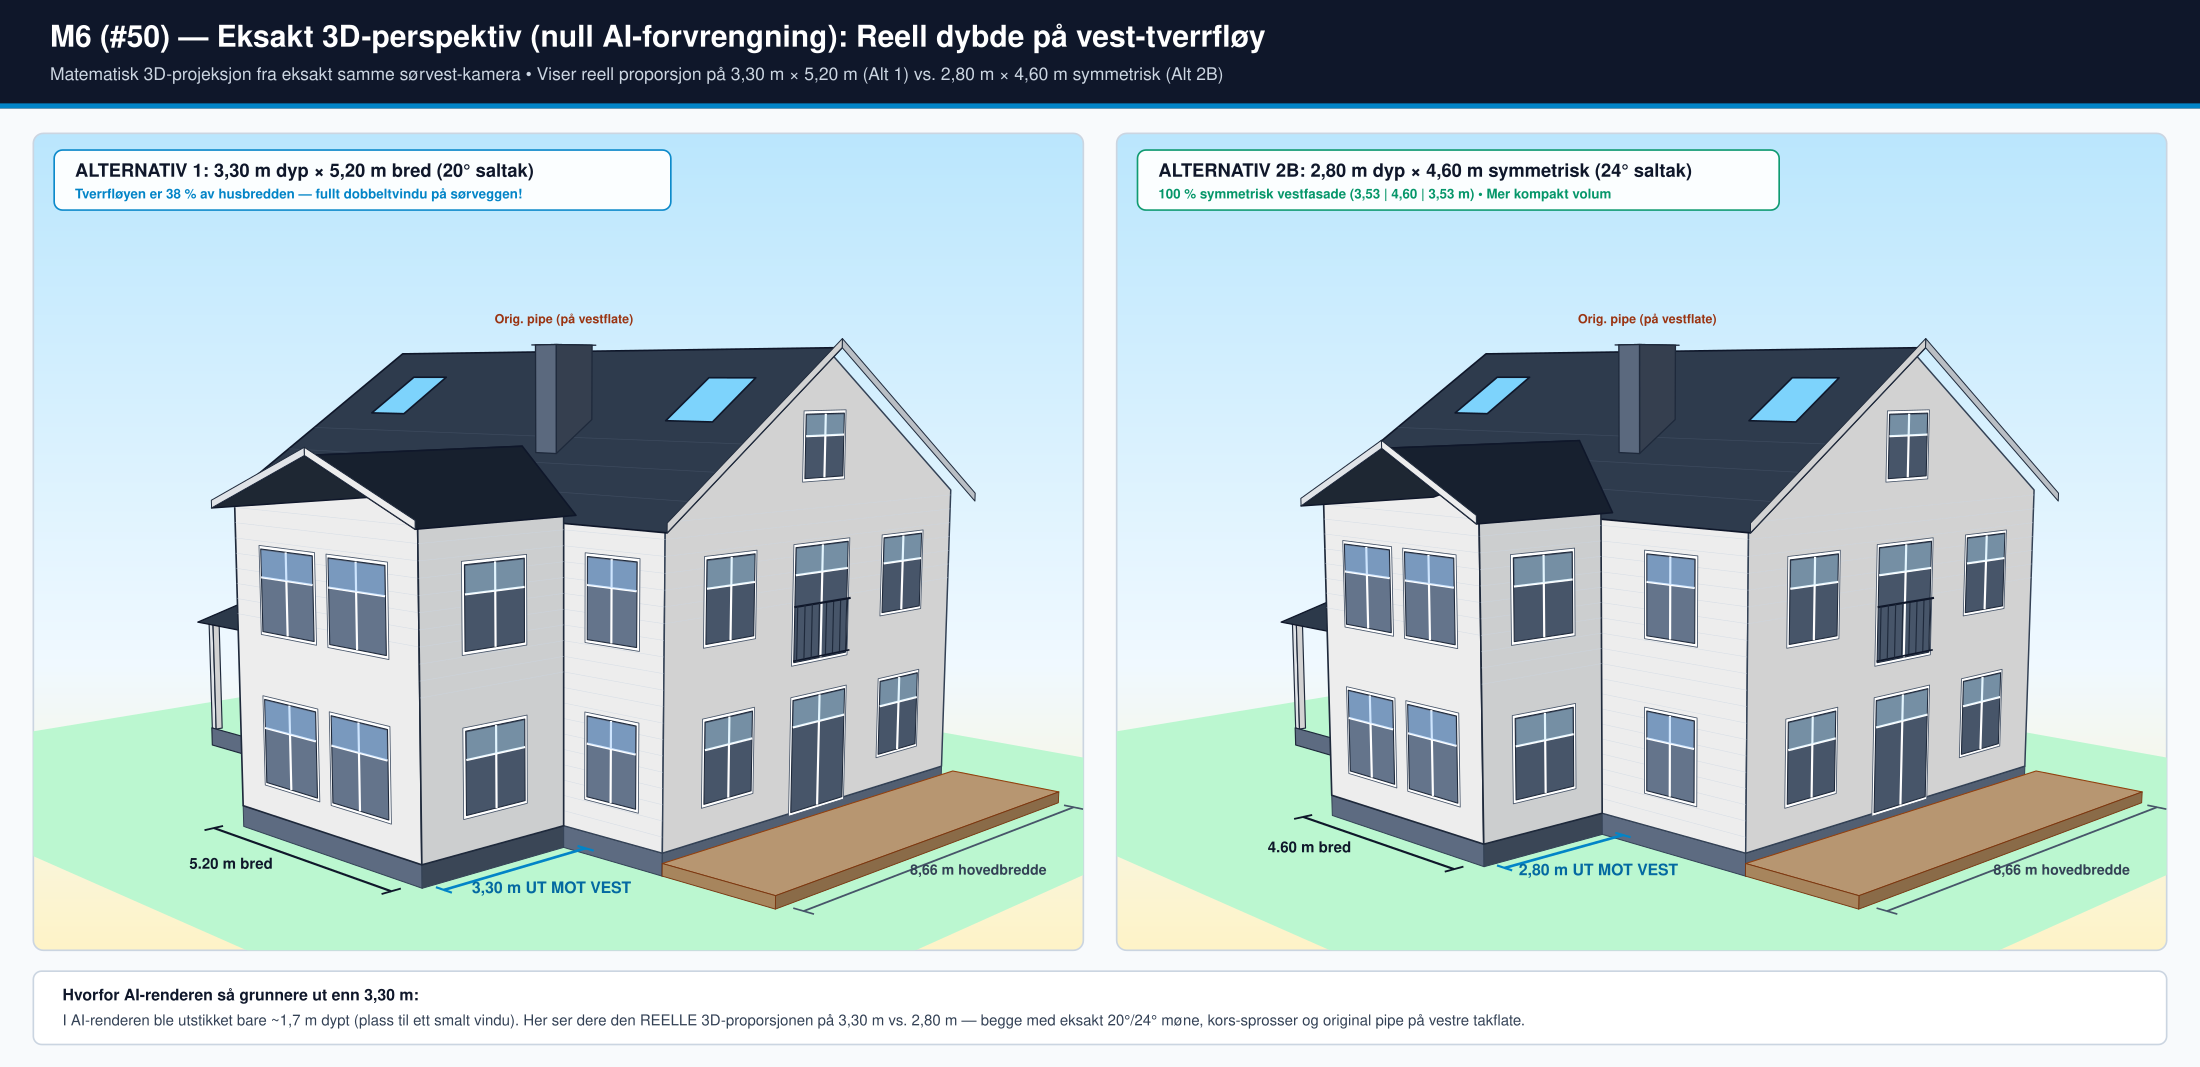
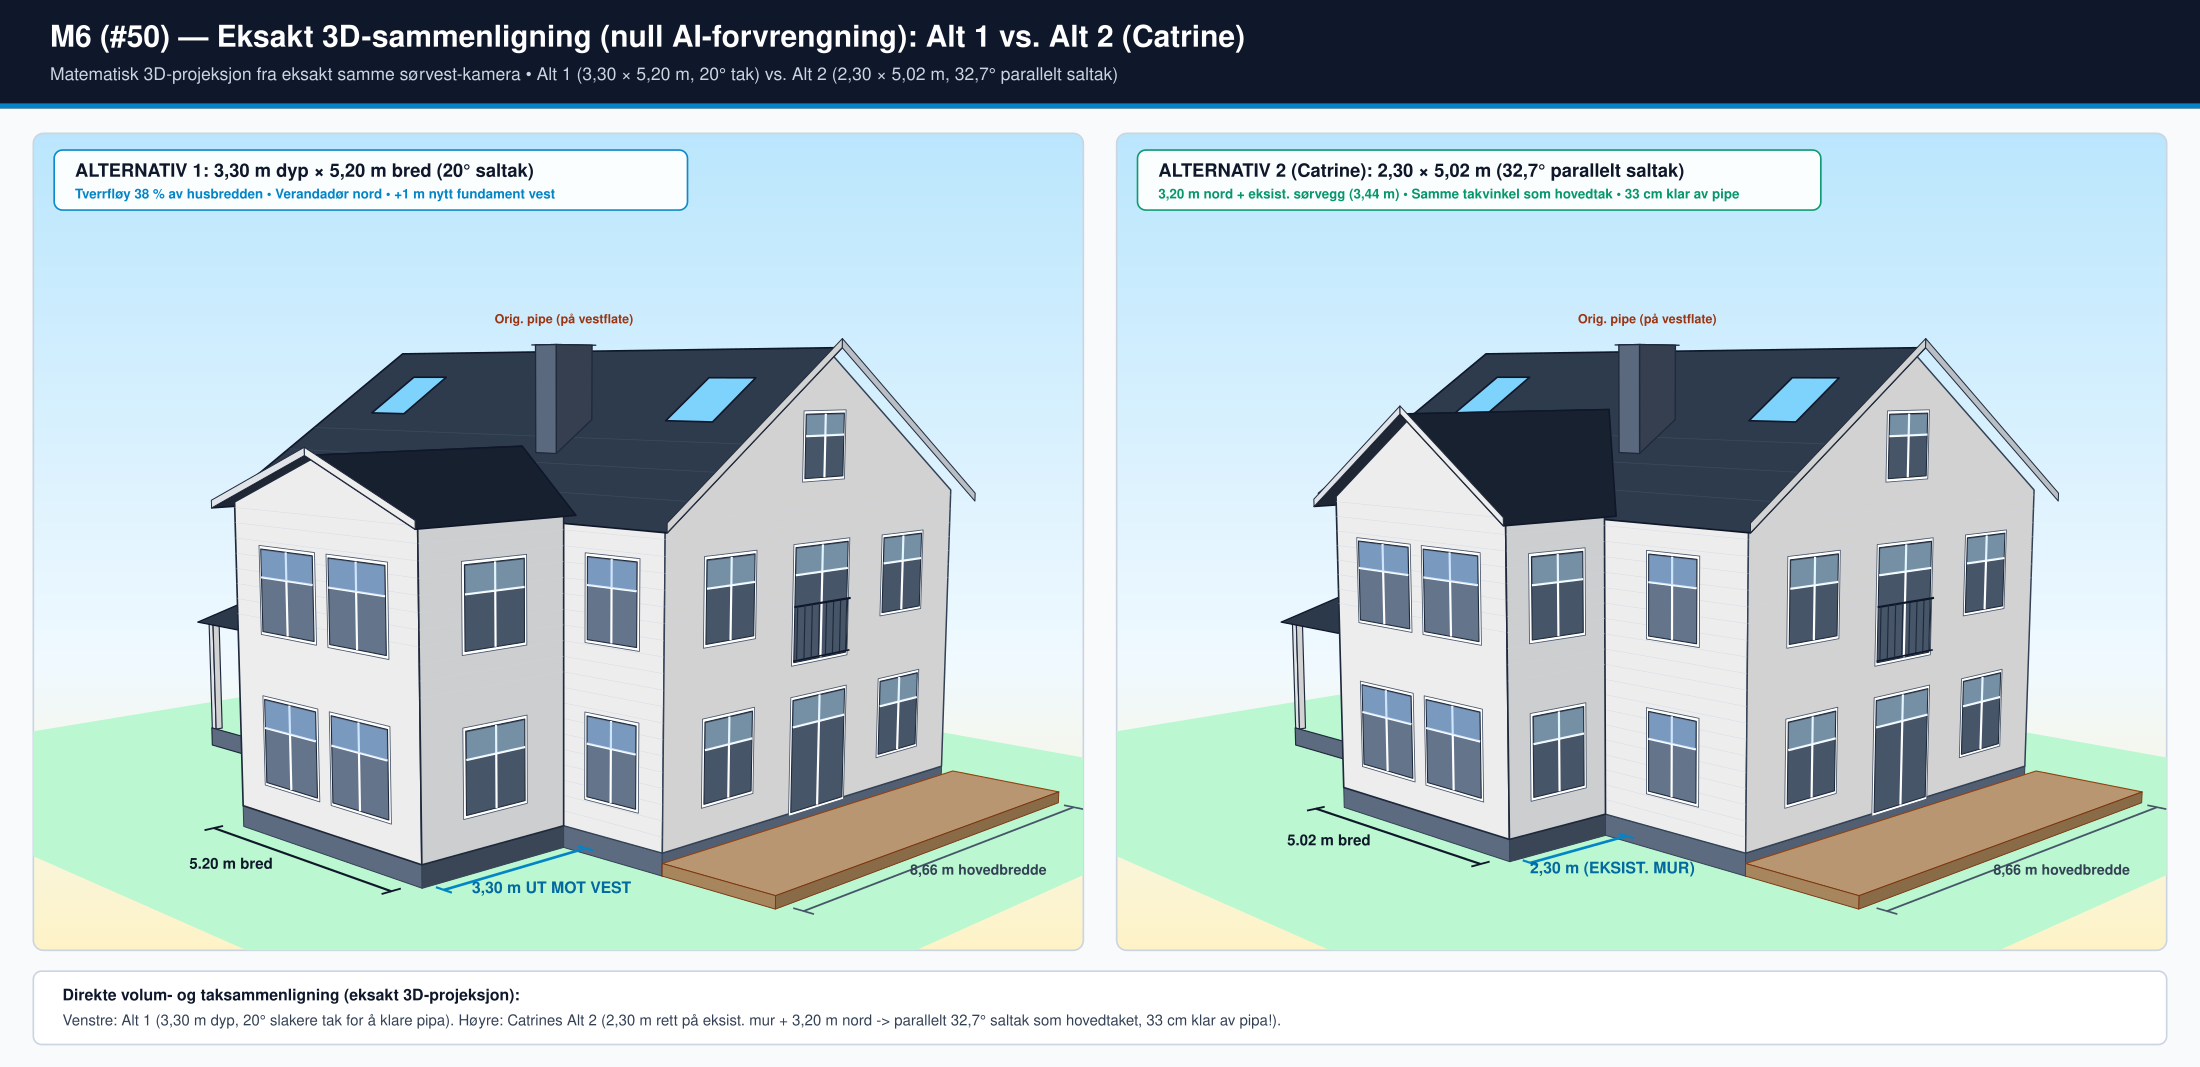
Update 3D SW comparison: Alt 1 (3.30x5.20m 20°) vs Catrine's Alt 2 (2.30x5.02m 32.7°)

diff --git a/scripts/generate_3d_perspektiv_eksakt.py b/scripts/generate_3d_perspektiv_eksakt.py
@@ -310,10 +310,11 @@ def build_house_3d(cam: Camera3D, west_d: float, y_s: float, y_n: float, wing_de
     sc.add_kors_window_west(-west_d, y_mid - gap / 2 - win_w, y_mid - gap / 2, 380, 530, layer=7)
     sc.add_kors_window_west(-west_d, y_mid + gap / 2, y_mid + gap / 2 + win_w, 380, 530, layer=7)
 
-    # South side wall of west wing — symmetric double kors-sprosse windows in BOTH 1st & 2nd floor (veranda door is on NORTH wall!)
+    # South side wall of west wing — symmetric double kors-sprosse windows in BOTH 1st & 2nd floor
     xc_s = -west_d / 2.0
-    sc.add_kors_window_south(y_s, xc_s - 68, xc_s + 68, 105, 250, layer=7)
-    sc.add_kors_window_south(y_s, xc_s - 68, xc_s + 68, 385, 530, layer=7)
+    hw_s = 68.0 if west_d >= 260 else 60.0
+    sc.add_kors_window_south(y_s, xc_s - hw_s, xc_s + hw_s, 105, 250, layer=7)
+    sc.add_kors_window_south(y_s, xc_s - hw_s, xc_s + hw_s, 385, 530, layer=7)
 
     # West wing ROOF (South slope + North slope meeting main roof cleanly at exact 3D valley!)
     ov_w = 30.0
@@ -325,13 +326,13 @@ def build_house_3d(cam: Camera3D, west_d: float, y_s: float, y_n: float, wing_de
         (x_stop, y_mid, z_wing_ridge),
         (-west_d - 30, y_mid, z_wing_ridge),
     ], "#1e293b", stroke="#0f172a", sw=2.0, layer=8, ambient=0.52)
-    # North roof slope (visible slightly at peak)
+    # North roof slope (behind west gable wall -> layer=5 so it never overlaps the front gable triangle!)
     sc.add_poly([
         (-west_d - 30, y_mid, z_wing_ridge),
         (x_stop, y_mid, z_wing_ridge),
         (0, y_n + ov_w, z_w_ov),
         (-west_d - 30, y_n + ov_w, z_w_ov),
-    ], "#334155", stroke="#0f172a", sw=1.8, layer=8, ambient=0.60)
+    ], "#334155", stroke="#0f172a", sw=1.8, layer=5, ambient=0.60)
     # White gable bargeboard on west wing
     sc.add_poly([(-west_d - 30, y_s - ov_w, z_w_ov), (-west_d - 30, y_mid, z_wing_ridge), (-west_d - 30, y_mid, z_wing_ridge + 14), (-west_d - 30, y_s - ov_w, z_w_ov + 14)],
                 "#ffffff", stroke="#1e293b", sw=1.2, layer=9)
@@ -379,8 +380,8 @@ def main():
         # Header
         f'<rect x="0" y="0" width="{W}" height="130" fill="#0f172a"/>',
         f'<rect x="0" y="124" width="{W}" height="6" fill="#0284c7"/>',
-        f'<text x="60" y="56" font-size="36" font-weight="800" fill="#ffffff">M6 (#50) — Eksakt 3D-perspektiv (null AI-forvrengning): Reell dybde på vest-tverrfløy</text>',
-        f'<text x="60" y="96" font-size="21" font-weight="500" fill="#cbd5e1">Matematisk 3D-projeksjon fra eksakt samme sørvest-kamera • Viser reell proporsjon på 3,30 m × 5,20 m (Alt 1) vs. 2,80 m × 4,60 m symmetrisk (Alt 2B)</text>',
+        f'<text x="60" y="56" font-size="36" font-weight="800" fill="#ffffff">M6 (#50) — Eksakt 3D-sammenligning (null AI-forvrengning): Alt 1 vs. Alt 2 (Catrine)</text>',
+        f'<text x="60" y="96" font-size="21" font-weight="500" fill="#cbd5e1">Matematisk 3D-projeksjon fra eksakt samme sørvest-kamera • Alt 1 (3,30 × 5,20 m, 20° tak) vs. Alt 2 (2,30 × 5,02 m, 32,7° parallelt saltak)</text>',
         # Left panel backdrop
         f'<rect x="40" y="160" width="1260" height="980" fill="url(#sky)" stroke="#cbd5e1" stroke-width="2" rx="12"/>',
         # Right panel backdrop
@@ -402,22 +403,22 @@ def main():
     svg.append("</g>")
 
     svg.append('<g clip-path="url(#clipR)">')
-    svg.extend(build_house_3d(camR, west_d=280.0, y_s=353.0, y_n=813.0, wing_deg=24.0, label_wing="2,80 m UT MOT VEST"))
+    svg.extend(build_house_3d(camR, west_d=230.0, y_s=344.0, y_n=846.0, wing_deg=32.7, label_wing="2,30 m (EKSIST. MUR)"))
     svg.append("</g>")
 
     # Panel banners
-    svg.append('<rect x="65" y="180" width="740" height="72" fill="#ffffff" opacity="0.94" stroke="#0284c7" stroke-width="2" rx="10"/>')
+    svg.append('<rect x="65" y="180" width="760" height="72" fill="#ffffff" opacity="0.94" stroke="#0284c7" stroke-width="2" rx="10"/>')
     svg.append('<text x="90" y="212" font-size="22" font-weight="800" fill="#0f172a">ALTERNATIV 1: 3,30 m dyp × 5,20 m bred (20° saltak)</text>')
-    svg.append('<text x="90" y="238" font-size="16" font-weight="600" fill="#0284c7">Tverrfløyen er 38 % av husbredden — fullt dobbeltvindu på sørveggen!</text>')
+    svg.append('<text x="90" y="238" font-size="16" font-weight="600" fill="#0284c7">Tverrfløy 38 % av husbredden • Verandadør nord • +1 m nytt fundament vest</text>')
 
-    svg.append('<rect x="1365" y="180" width="770" height="72" fill="#ffffff" opacity="0.94" stroke="#059669" stroke-width="2" rx="10"/>')
-    svg.append('<text x="1390" y="212" font-size="22" font-weight="800" fill="#0f172a">ALTERNATIV 2B: 2,80 m dyp × 4,60 m symmetrisk (24° saltak)</text>')
-    svg.append('<text x="1390" y="238" font-size="16" font-weight="600" fill="#059669">100 % symmetrisk vestfasade (3,53 | 4,60 | 3,53 m) • Mer kompakt volum</text>')
+    svg.append('<rect x="1365" y="180" width="820" height="72" fill="#ffffff" opacity="0.94" stroke="#059669" stroke-width="2" rx="10"/>')
+    svg.append('<text x="1390" y="212" font-size="22" font-weight="800" fill="#0f172a">ALTERNATIV 2 (Catrine): 2,30 × 5,02 m (32,7° parallelt saltak)</text>')
+    svg.append('<text x="1390" y="238" font-size="16" font-weight="600" fill="#059669">3,20 m nord + eksist. sørvegg (3,44 m) • Samme takvinkel som hovedtak • 33 cm klar av pipe</text>')
 
     # Footer
     svg.append(f'<rect x="40" y="1165" width="{W - 80}" height="88" fill="#ffffff" stroke="#cbd5e1" stroke-width="2" rx="10"/>')
-    svg.append('<text x="75" y="1200" font-size="19" font-weight="700" fill="#0f172a">Hvorfor AI-renderen så grunnere ut enn 3,30 m:</text>')
-    svg.append('<text x="75" y="1230" font-size="18" font-weight="500" fill="#334155">I AI-renderen ble utstikket bare ~1,7 m dypt (plass til ett smalt vindu). Her ser dere den REELLE 3D-proporsjonen på 3,30 m vs. 2,80 m — begge med eksakt 20°/24° møne, kors-sprosser og original pipe på vestre takflate.</text>')
+    svg.append('<text x="75" y="1200" font-size="19" font-weight="700" fill="#0f172a">Direkte volum- og taksammenligning (eksakt 3D-projeksjon):</text>')
+    svg.append('<text x="75" y="1230" font-size="18" font-weight="500" fill="#334155">Venstre: Alt 1 (3,30 m dyp, 20° slakere tak for å klare pipa). Høyre: Catrines Alt 2 (2,30 m rett på eksist. mur + 3,20 m nord -> parallelt 32,7° saltak som hovedtaket, 33 cm klar av pipa!).</text>')
     svg.append("</svg>")
 
     out = os.path.join(OUT_DIR, "perspektiv_3d_eksakt_dybde.svg")
